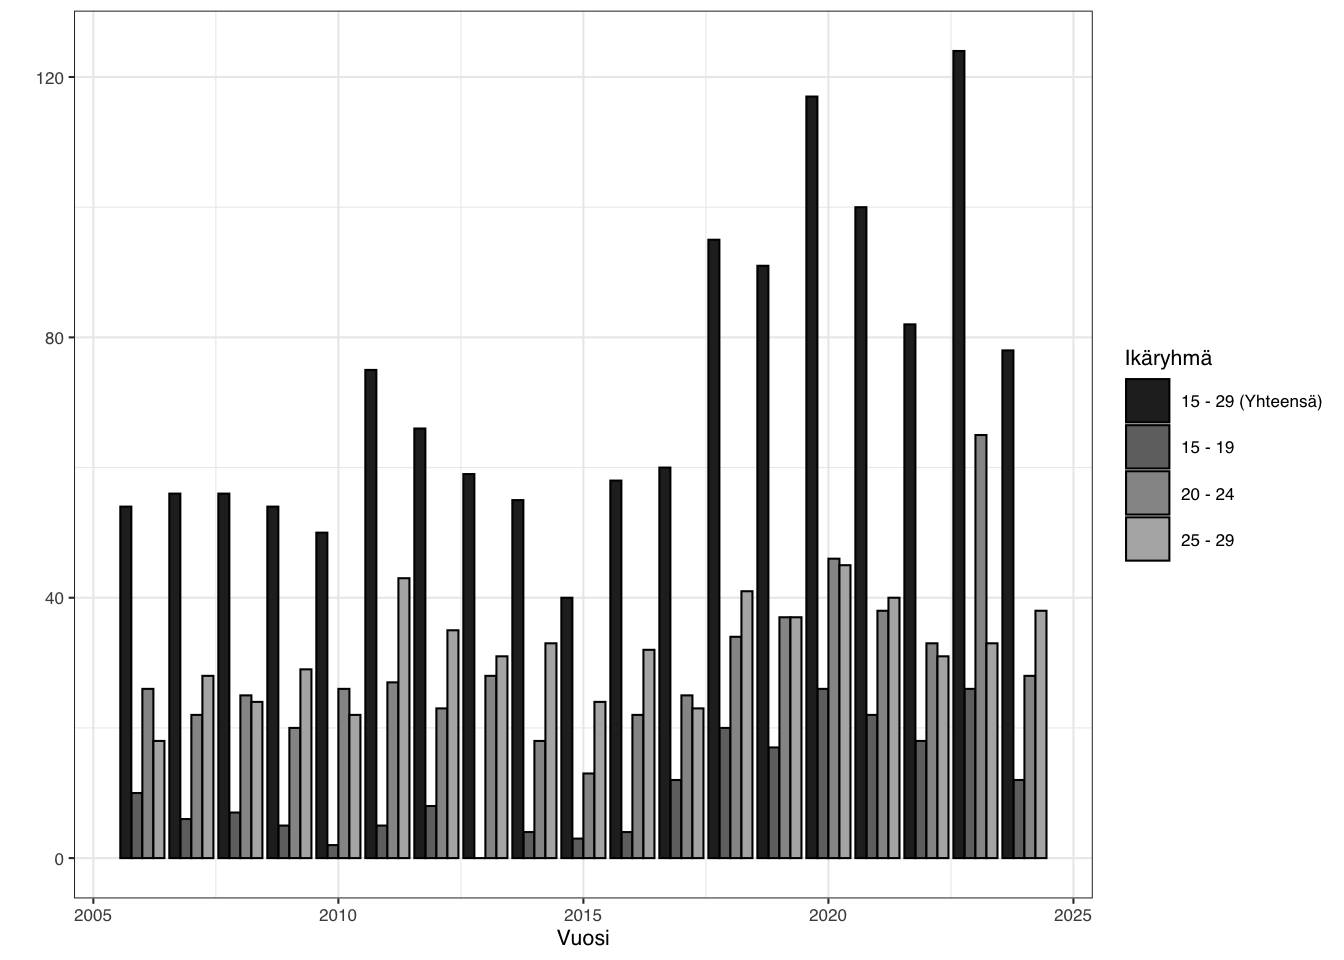
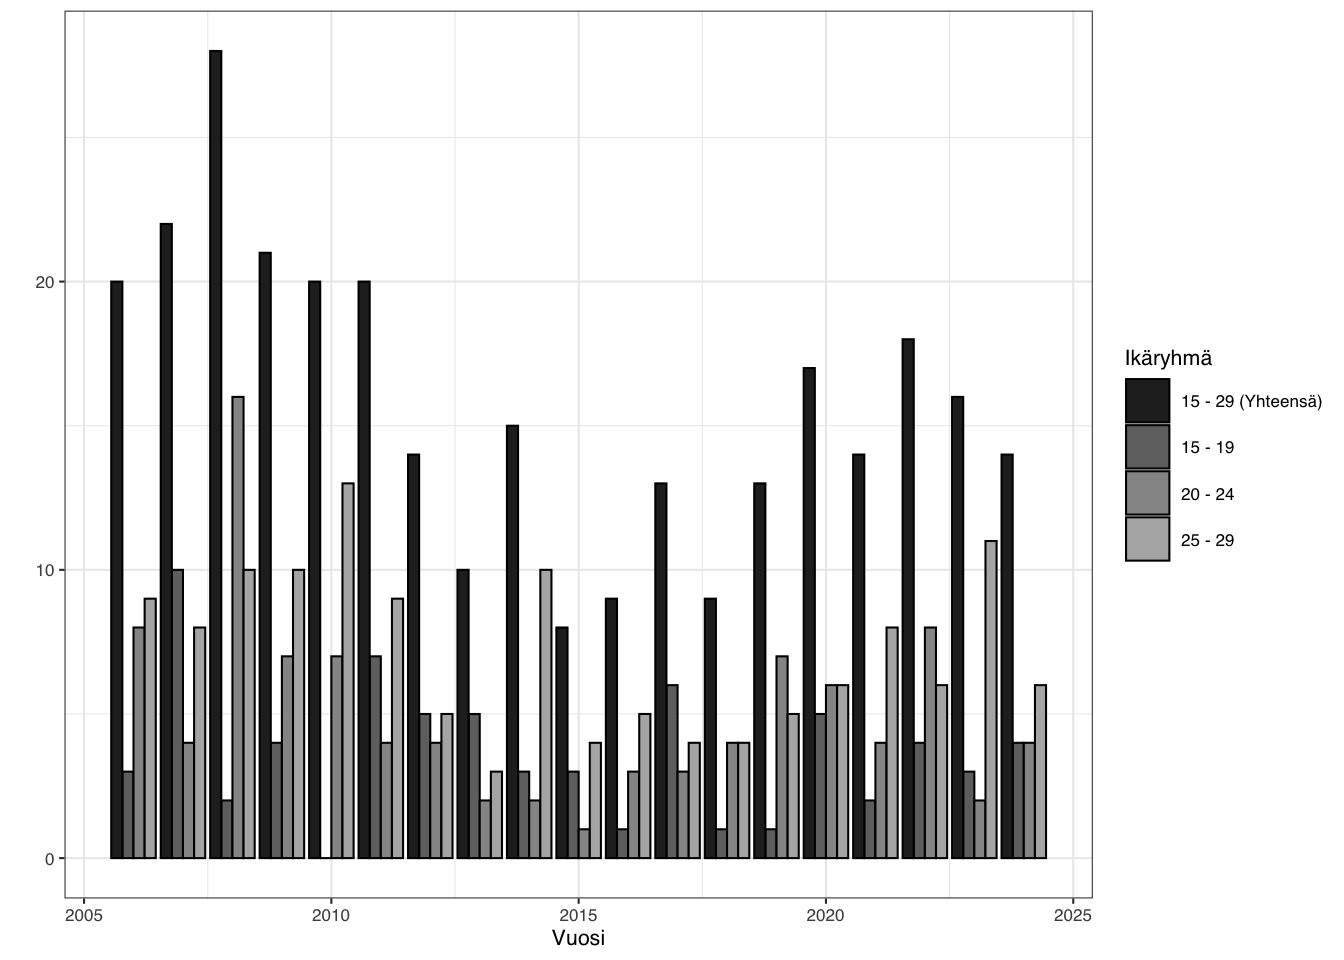
Re-render website

diff --git a/docs/datan-visualisointi.html b/docs/datan-visualisointi.html
@@ -6,7 +6,7 @@
 
 <meta name="viewport" content="width=device-width, initial-scale=1.0, user-scalable=yes">
 
-<meta name="dcterms.date" content="2025-10-31">
+<meta name="dcterms.date" content="2025-11-03">
 
 <title>YP YD-visualisoinnit</title>
 <style>
@@ -216,7 +216,7 @@ pre > code.sourceCode > span > a:first-child::before { text-decoration: underlin
     <div>
     <div class="quarto-title-meta-heading">Published</div>
     <div class="quarto-title-meta-contents">
-      <p class="date">October 31, 2025</p>
+      <p class="date">November 3, 2025</p>
     </div>
   </div>
   
@@ -796,7 +796,7 @@ pre > code.sourceCode > span > a:first-child::before { text-decoration: underlin
 </div>
 <details>
 <summary>Code</summary>
-<div class="sourceCode cell-code" id="cb19"><pre class="sourceCode r code-with-copy"><code class="sourceCode r"><span id="cb19-1"><a href="#cb19-1" aria-hidden="true" tabindex="-1"></a>kuvio2 <span class="ot">&lt;-</span> <span class="fu">ggplot</span>(vakivalta_ikaryhmat_2, <span class="fu">aes</span>(<span class="at">fill =</span> ika, <span class="at">y=</span>kuolleet_06_24, <span class="at">x=</span><span class="fu">as.numeric</span>(vuosi))) <span class="sc">+</span></span>
+<div class="sourceCode cell-code" id="cb19"><pre class="sourceCode r code-with-copy"><code class="sourceCode r"><span id="cb19-1"><a href="#cb19-1" aria-hidden="true" tabindex="-1"></a>kuvio2 <span class="ot">&lt;-</span> <span class="fu">ggplot</span>(huumekuolemat_ikaryhmat_2, <span class="fu">aes</span>(<span class="at">fill =</span> ika, <span class="at">y=</span>kuolleet_06_24, <span class="at">x=</span><span class="fu">as.numeric</span>(vuosi))) <span class="sc">+</span></span>
 <span id="cb19-2"><a href="#cb19-2" aria-hidden="true" tabindex="-1"></a>  <span class="fu">geom_bar</span>(<span class="at">position=</span><span class="st">"dodge"</span>, <span class="at">stat=</span><span class="st">"identity"</span>, <span class="at">color =</span> <span class="st">"black"</span>, <span class="at">size =</span> <span class="fl">0.25</span>) <span class="sc">+</span> </span>
 <span id="cb19-3"><a href="#cb19-3" aria-hidden="true" tabindex="-1"></a>  <span class="fu">labs</span>(<span class="at">x =</span> <span class="st">"Vuosi"</span>,</span>
 <span id="cb19-4"><a href="#cb19-4" aria-hidden="true" tabindex="-1"></a>       <span class="at">y =</span> <span class="st">""</span>,</span>
@@ -813,7 +813,7 @@ pre > code.sourceCode > span > a:first-child::before { text-decoration: underlin
 </div>
 <details>
 <summary>Code</summary>
-<div class="sourceCode cell-code" id="cb20"><pre class="sourceCode r code-with-copy"><code class="sourceCode r"><span id="cb20-1"><a href="#cb20-1" aria-hidden="true" tabindex="-1"></a>kuvio3 <span class="ot">&lt;-</span> <span class="fu">ggplot</span>(huumekuolemat_ikaryhmat_2, <span class="fu">aes</span>(<span class="at">fill =</span> ika, <span class="at">y=</span>kuolleet_06_24, <span class="at">x=</span><span class="fu">as.numeric</span>(vuosi))) <span class="sc">+</span></span>
+<div class="sourceCode cell-code" id="cb20"><pre class="sourceCode r code-with-copy"><code class="sourceCode r"><span id="cb20-1"><a href="#cb20-1" aria-hidden="true" tabindex="-1"></a>kuvio3 <span class="ot">&lt;-</span> <span class="fu">ggplot</span>(vakivalta_ikaryhmat_2, <span class="fu">aes</span>(<span class="at">fill =</span> ika, <span class="at">y=</span>kuolleet_06_24, <span class="at">x=</span><span class="fu">as.numeric</span>(vuosi))) <span class="sc">+</span></span>
 <span id="cb20-2"><a href="#cb20-2" aria-hidden="true" tabindex="-1"></a>  <span class="fu">geom_bar</span>(<span class="at">position=</span><span class="st">"dodge"</span>, <span class="at">stat=</span><span class="st">"identity"</span>, <span class="at">color =</span> <span class="st">"black"</span>, <span class="at">size =</span> <span class="fl">0.25</span>) <span class="sc">+</span> </span>
 <span id="cb20-3"><a href="#cb20-3" aria-hidden="true" tabindex="-1"></a>  <span class="fu">labs</span>(<span class="at">x =</span> <span class="st">"Vuosi"</span>,</span>
 <span id="cb20-4"><a href="#cb20-4" aria-hidden="true" tabindex="-1"></a>       <span class="at">y =</span> <span class="st">""</span>,</span>
@@ -843,7 +843,7 @@ pre > code.sourceCode > span > a:first-child::before { text-decoration: underlin
 <div class="cell">
 <details>
 <summary>Code</summary>
-<div class="sourceCode cell-code" id="cb22"><pre class="sourceCode r code-with-copy"><code class="sourceCode r"><span id="cb22-1"><a href="#cb22-1" aria-hidden="true" tabindex="-1"></a>kuvio1 <span class="ot">&lt;-</span> <span class="fu">ggplot</span>(itsemurhat_ikaryhmat_2, <span class="fu">aes</span>(<span class="at">group =</span> ika, <span class="at">y=</span>kuolleet_06_24, <span class="at">x=</span><span class="fu">as.numeric</span>(vuosi))) <span class="sc">+</span></span>
+<div class="sourceCode cell-code" id="cb22"><pre class="sourceCode r code-with-copy"><code class="sourceCode r"><span id="cb22-1"><a href="#cb22-1" aria-hidden="true" tabindex="-1"></a>kuvio1_viiva <span class="ot">&lt;-</span> <span class="fu">ggplot</span>(itsemurhat_ikaryhmat_2, <span class="fu">aes</span>(<span class="at">group =</span> ika, <span class="at">y=</span>kuolleet_06_24, <span class="at">x=</span><span class="fu">as.numeric</span>(vuosi))) <span class="sc">+</span></span>
 <span id="cb22-2"><a href="#cb22-2" aria-hidden="true" tabindex="-1"></a>  <span class="fu">geom_line</span>(<span class="fu">aes</span>(<span class="at">color=</span>ika, <span class="at">linetype=</span>ika), <span class="at">linewidth =</span> <span class="dv">1</span><span class="sc">/</span>.pt) <span class="sc">+</span> </span>
 <span id="cb22-3"><a href="#cb22-3" aria-hidden="true" tabindex="-1"></a>  <span class="fu">labs</span>(<span class="at">x =</span> <span class="st">"Vuosi"</span>,</span>
 <span id="cb22-4"><a href="#cb22-4" aria-hidden="true" tabindex="-1"></a>       <span class="at">y =</span> <span class="st">""</span>,</span>
@@ -852,14 +852,14 @@ pre > code.sourceCode > span > a:first-child::before { text-decoration: underlin
 <span id="cb22-7"><a href="#cb22-7" aria-hidden="true" tabindex="-1"></a>  <span class="fu">theme</span>(<span class="at">legend.position =</span> <span class="st">"bottom"</span>) <span class="sc">+</span></span>
 <span id="cb22-8"><a href="#cb22-8" aria-hidden="true" tabindex="-1"></a>  <span class="fu">theme_bw</span>(<span class="at">base_size =</span> <span class="dv">8</span>, <span class="at">base_family =</span> <span class="st">"sans"</span>)</span>
 <span id="cb22-9"><a href="#cb22-9" aria-hidden="true" tabindex="-1"></a></span>
-<span id="cb22-10"><a href="#cb22-10" aria-hidden="true" tabindex="-1"></a>kuvio1</span></code><button title="Copy to Clipboard" class="code-copy-button"><i class="bi"></i></button></pre></div>
+<span id="cb22-10"><a href="#cb22-10" aria-hidden="true" tabindex="-1"></a>kuvio1_viiva</span></code><button title="Copy to Clipboard" class="code-copy-button"><i class="bi"></i></button></pre></div>
 </details>
 <div class="cell-output-display">
 <p><img src="datan-visualisointi_files/figure-html/1_yd_kuolemansyyt_visualisointi_artikkeliin_viivakuvaajat-1.png" class="img-fluid" width="672"></p>
 </div>
 <details>
 <summary>Code</summary>
-<div class="sourceCode cell-code" id="cb23"><pre class="sourceCode r code-with-copy"><code class="sourceCode r"><span id="cb23-1"><a href="#cb23-1" aria-hidden="true" tabindex="-1"></a>kuvio2 <span class="ot">&lt;-</span> <span class="fu">ggplot</span>(huumekuolemat_ikaryhmat_2, <span class="fu">aes</span>(<span class="at">group =</span> ika, <span class="at">y=</span>kuolleet_06_24, <span class="at">x=</span><span class="fu">as.numeric</span>(vuosi))) <span class="sc">+</span></span>
+<div class="sourceCode cell-code" id="cb23"><pre class="sourceCode r code-with-copy"><code class="sourceCode r"><span id="cb23-1"><a href="#cb23-1" aria-hidden="true" tabindex="-1"></a>kuvio2_viiva <span class="ot">&lt;-</span> <span class="fu">ggplot</span>(huumekuolemat_ikaryhmat_2, <span class="fu">aes</span>(<span class="at">group =</span> ika, <span class="at">y=</span>kuolleet_06_24, <span class="at">x=</span><span class="fu">as.numeric</span>(vuosi))) <span class="sc">+</span></span>
 <span id="cb23-2"><a href="#cb23-2" aria-hidden="true" tabindex="-1"></a>  <span class="fu">geom_line</span>(<span class="fu">aes</span>(<span class="at">color=</span>ika, <span class="at">linetype=</span>ika), <span class="at">linewidth =</span> <span class="dv">1</span><span class="sc">/</span>.pt) <span class="sc">+</span> </span>
 <span id="cb23-3"><a href="#cb23-3" aria-hidden="true" tabindex="-1"></a>  <span class="fu">labs</span>(<span class="at">x =</span> <span class="st">"Vuosi"</span>,</span>
 <span id="cb23-4"><a href="#cb23-4" aria-hidden="true" tabindex="-1"></a>       <span class="at">y =</span> <span class="st">""</span>,</span>
@@ -868,14 +868,14 @@ pre > code.sourceCode > span > a:first-child::before { text-decoration: underlin
 <span id="cb23-7"><a href="#cb23-7" aria-hidden="true" tabindex="-1"></a>  <span class="fu">theme</span>(<span class="at">legend.position =</span> <span class="st">"bottom"</span>) <span class="sc">+</span></span>
 <span id="cb23-8"><a href="#cb23-8" aria-hidden="true" tabindex="-1"></a>  <span class="fu">theme_bw</span>(<span class="at">base_size =</span> <span class="dv">8</span>, <span class="at">base_family =</span> <span class="st">"sans"</span>)</span>
 <span id="cb23-9"><a href="#cb23-9" aria-hidden="true" tabindex="-1"></a></span>
-<span id="cb23-10"><a href="#cb23-10" aria-hidden="true" tabindex="-1"></a>kuvio2</span></code><button title="Copy to Clipboard" class="code-copy-button"><i class="bi"></i></button></pre></div>
+<span id="cb23-10"><a href="#cb23-10" aria-hidden="true" tabindex="-1"></a>kuvio2_viiva</span></code><button title="Copy to Clipboard" class="code-copy-button"><i class="bi"></i></button></pre></div>
 </details>
 <div class="cell-output-display">
 <p><img src="datan-visualisointi_files/figure-html/1_yd_kuolemansyyt_visualisointi_artikkeliin_viivakuvaajat-2.png" class="img-fluid" width="672"></p>
 </div>
 <details>
 <summary>Code</summary>
-<div class="sourceCode cell-code" id="cb24"><pre class="sourceCode r code-with-copy"><code class="sourceCode r"><span id="cb24-1"><a href="#cb24-1" aria-hidden="true" tabindex="-1"></a>kuvio3 <span class="ot">&lt;-</span> <span class="fu">ggplot</span>(vakivalta_ikaryhmat_2, <span class="fu">aes</span>(<span class="at">group =</span> ika, <span class="at">y=</span>kuolleet_06_24, <span class="at">x=</span><span class="fu">as.numeric</span>(vuosi))) <span class="sc">+</span></span>
+<div class="sourceCode cell-code" id="cb24"><pre class="sourceCode r code-with-copy"><code class="sourceCode r"><span id="cb24-1"><a href="#cb24-1" aria-hidden="true" tabindex="-1"></a>kuvio3_viiva <span class="ot">&lt;-</span> <span class="fu">ggplot</span>(vakivalta_ikaryhmat_2, <span class="fu">aes</span>(<span class="at">group =</span> ika, <span class="at">y=</span>kuolleet_06_24, <span class="at">x=</span><span class="fu">as.numeric</span>(vuosi))) <span class="sc">+</span></span>
 <span id="cb24-2"><a href="#cb24-2" aria-hidden="true" tabindex="-1"></a>  <span class="fu">geom_line</span>(<span class="fu">aes</span>(<span class="at">color=</span>ika, <span class="at">linetype=</span>ika), <span class="at">linewidth =</span> <span class="dv">1</span><span class="sc">/</span>.pt) <span class="sc">+</span> </span>
 <span id="cb24-3"><a href="#cb24-3" aria-hidden="true" tabindex="-1"></a>  <span class="fu">labs</span>(<span class="at">x =</span> <span class="st">"Vuosi"</span>,</span>
 <span id="cb24-4"><a href="#cb24-4" aria-hidden="true" tabindex="-1"></a>       <span class="at">y =</span> <span class="st">""</span>,</span>
@@ -884,7 +884,7 @@ pre > code.sourceCode > span > a:first-child::before { text-decoration: underlin
 <span id="cb24-7"><a href="#cb24-7" aria-hidden="true" tabindex="-1"></a>  <span class="fu">theme</span>(<span class="at">legend.position =</span> <span class="st">"bottom"</span>) <span class="sc">+</span></span>
 <span id="cb24-8"><a href="#cb24-8" aria-hidden="true" tabindex="-1"></a>  <span class="fu">theme_bw</span>(<span class="at">base_size =</span> <span class="dv">8</span>, <span class="at">base_family =</span> <span class="st">"sans"</span>)</span>
 <span id="cb24-9"><a href="#cb24-9" aria-hidden="true" tabindex="-1"></a></span>
-<span id="cb24-10"><a href="#cb24-10" aria-hidden="true" tabindex="-1"></a>kuvio3</span></code><button title="Copy to Clipboard" class="code-copy-button"><i class="bi"></i></button></pre></div>
+<span id="cb24-10"><a href="#cb24-10" aria-hidden="true" tabindex="-1"></a>kuvio3_viiva</span></code><button title="Copy to Clipboard" class="code-copy-button"><i class="bi"></i></button></pre></div>
 </details>
 <div class="cell-output-display">
 <p><img src="datan-visualisointi_files/figure-html/1_yd_kuolemansyyt_visualisointi_artikkeliin_viivakuvaajat-3.png" class="img-fluid" width="672"></p>
@@ -892,9 +892,9 @@ pre > code.sourceCode > span > a:first-child::before { text-decoration: underlin
 <details>
 <summary>Code</summary>
 <div class="sourceCode cell-code" id="cb25"><pre class="sourceCode r code-with-copy"><code class="sourceCode r"><span id="cb25-1"><a href="#cb25-1" aria-hidden="true" tabindex="-1"></a><span class="cf">if</span> (tuota_vektorikuviot <span class="sc">&amp;</span> tuota_viivakuviot) {</span>
-<span id="cb25-2"><a href="#cb25-2" aria-hidden="true" tabindex="-1"></a>  <span class="fu">ggsave</span>(<span class="st">"prepared_plots/kuvio1_viiva_13x8.pdf"</span>, <span class="at">plot =</span> kuvio1, <span class="at">width =</span> <span class="dv">130</span>, <span class="at">height =</span> <span class="dv">80</span>, <span class="at">units =</span> <span class="st">"mm"</span>, <span class="at">dpi =</span> <span class="dv">300</span>, <span class="at">scale =</span> <span class="dv">1</span>)</span>
-<span id="cb25-3"><a href="#cb25-3" aria-hidden="true" tabindex="-1"></a>  <span class="fu">ggsave</span>(<span class="st">"prepared_plots/kuvio2_viiva_13x8.pdf"</span>, <span class="at">plot =</span> kuvio2, <span class="at">width =</span> <span class="dv">130</span>, <span class="at">height =</span> <span class="dv">80</span>, <span class="at">units =</span> <span class="st">"mm"</span>, <span class="at">dpi =</span> <span class="dv">300</span>, <span class="at">scale =</span> <span class="dv">1</span>)</span>
-<span id="cb25-4"><a href="#cb25-4" aria-hidden="true" tabindex="-1"></a>  <span class="fu">ggsave</span>(<span class="st">"prepared_plots/kuvio3_viiva_13x8.pdf"</span>, <span class="at">plot =</span> kuvio3, <span class="at">width =</span> <span class="dv">130</span>, <span class="at">height =</span> <span class="dv">80</span>, <span class="at">units =</span> <span class="st">"mm"</span>, <span class="at">dpi =</span> <span class="dv">300</span>, <span class="at">scale =</span> <span class="dv">1</span>)</span>
+<span id="cb25-2"><a href="#cb25-2" aria-hidden="true" tabindex="-1"></a>  <span class="fu">ggsave</span>(<span class="st">"prepared_plots/kuvio1_viiva_13x8.pdf"</span>, <span class="at">plot =</span> kuvio1_viiva, <span class="at">width =</span> <span class="dv">130</span>, <span class="at">height =</span> <span class="dv">80</span>, <span class="at">units =</span> <span class="st">"mm"</span>, <span class="at">dpi =</span> <span class="dv">300</span>, <span class="at">scale =</span> <span class="dv">1</span>)</span>
+<span id="cb25-3"><a href="#cb25-3" aria-hidden="true" tabindex="-1"></a>  <span class="fu">ggsave</span>(<span class="st">"prepared_plots/kuvio2_viiva_13x8.pdf"</span>, <span class="at">plot =</span> kuvio2_viiva, <span class="at">width =</span> <span class="dv">130</span>, <span class="at">height =</span> <span class="dv">80</span>, <span class="at">units =</span> <span class="st">"mm"</span>, <span class="at">dpi =</span> <span class="dv">300</span>, <span class="at">scale =</span> <span class="dv">1</span>)</span>
+<span id="cb25-4"><a href="#cb25-4" aria-hidden="true" tabindex="-1"></a>  <span class="fu">ggsave</span>(<span class="st">"prepared_plots/kuvio3_viiva_13x8.pdf"</span>, <span class="at">plot =</span> kuvio3_viiva, <span class="at">width =</span> <span class="dv">130</span>, <span class="at">height =</span> <span class="dv">80</span>, <span class="at">units =</span> <span class="st">"mm"</span>, <span class="at">dpi =</span> <span class="dv">300</span>, <span class="at">scale =</span> <span class="dv">1</span>)</span>
 <span id="cb25-5"><a href="#cb25-5" aria-hidden="true" tabindex="-1"></a>}</span></code><button title="Copy to Clipboard" class="code-copy-button"><i class="bi"></i></button></pre></div>
 </details>
 </div>
@@ -3110,7 +3110,7 @@ BLAS:   /Library/Frameworks/R.framework/Versions/4.5-arm64/Resources/lib/libRbla
 LAPACK: /Library/Frameworks/R.framework/Versions/4.5-arm64/Resources/lib/libRlapack.dylib;  LAPACK version 3.12.1
 
 locale:
-[1] fi_FI.UTF-8/fi_FI.UTF-8/fi_FI.UTF-8/C/fi_FI.UTF-8/fi_FI.UTF-8
+[1] en_US.UTF-8/en_US.UTF-8/en_US.UTF-8/C/en_US.UTF-8/en_US.UTF-8
 
 time zone: Europe/Helsinki
 tzcode source: internal
